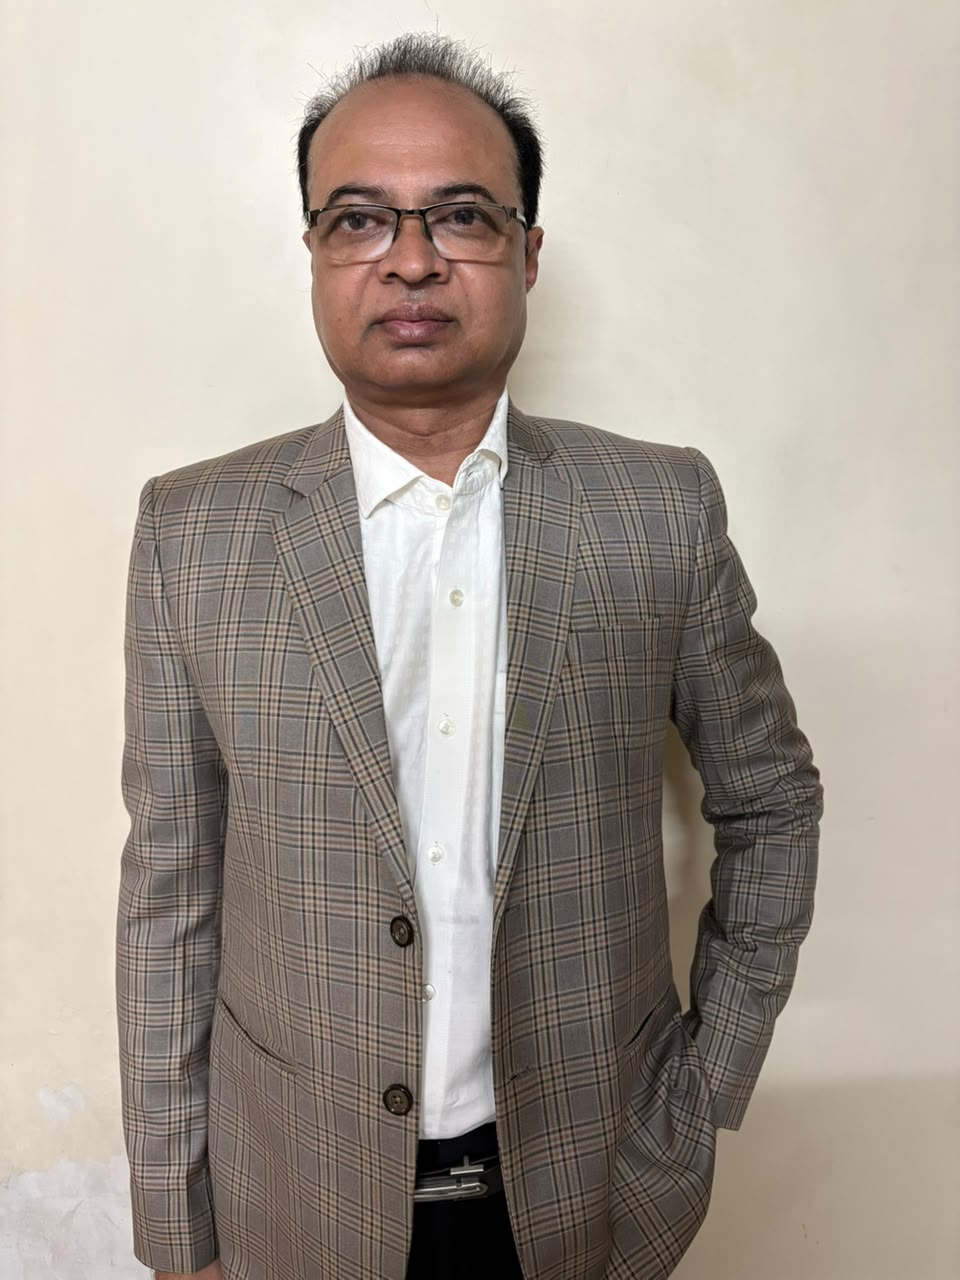
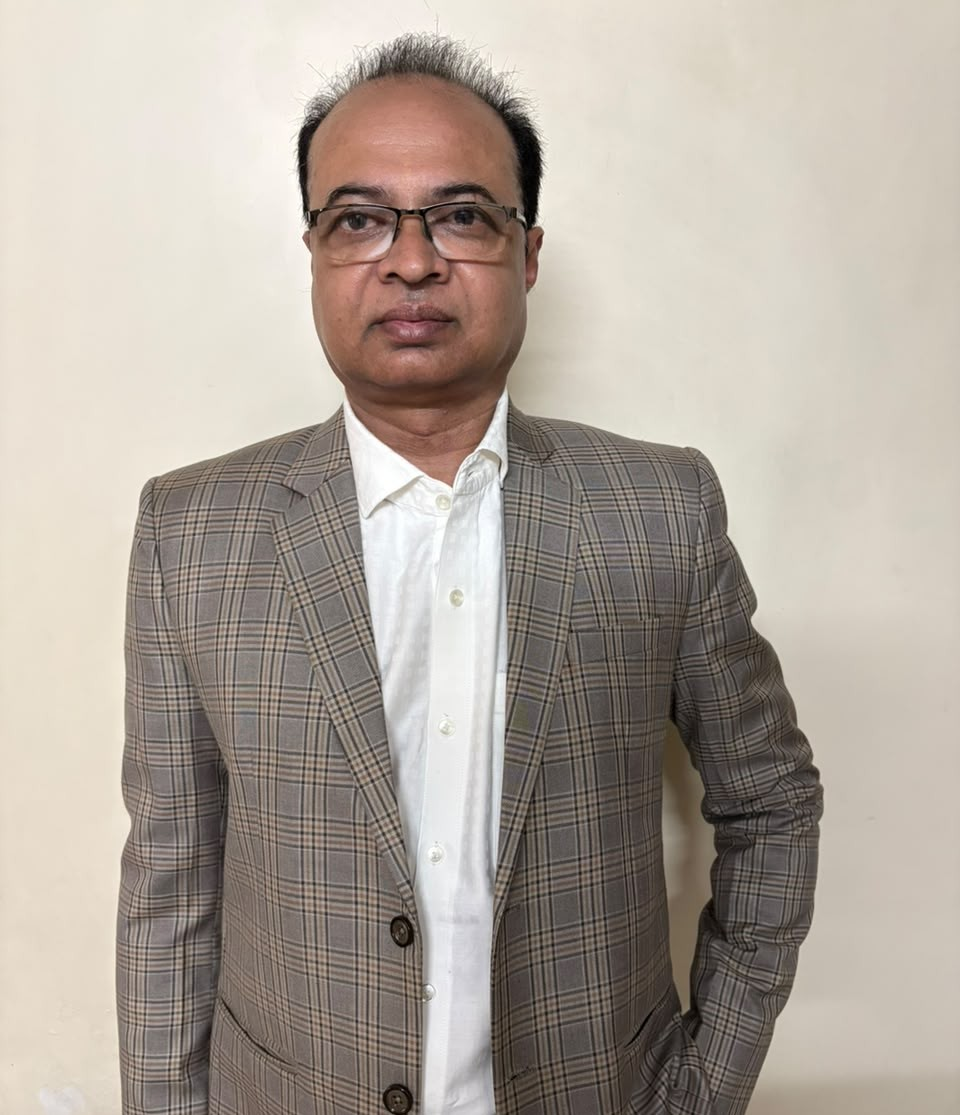
Permanently format Savera Tex Solution LLP in Playfair Display Bold font across entire website

diff --git a/frontend/src/components/BuyerGuide.jsx b/frontend/src/components/BuyerGuide.jsx
@@ -209,7 +209,7 @@ export default function BuyerGuide({ onBack, onInquire }) {
               Buyer's Guide &amp; Sourcing Handbook
             </h1>
             <p className="text-sm sm:text-base text-neutral-600 max-w-3xl leading-relaxed">
-              Essential guidance for retailers, wholesalers, and commercial buyers trading in Indian textiles through {highlightSavera('Savera')} Tex Solution LLP.
+              Essential guidance for retailers, wholesalers, and commercial buyers trading in Indian textiles through {highlightSavera('Savera Tex Solution LLP')}.
             </p>
           </div>
 
@@ -233,7 +233,7 @@ export default function BuyerGuide({ onBack, onInquire }) {
 
           <div className="p-5 sm:p-6 rounded-2xl bg-white border border-[#fbd7b4]/70 shadow-xs space-y-3">
             <p className="text-sm sm:text-base text-neutral-700 leading-relaxed">
-              At {highlightSavera('Savera')} Tex Solution LLP, every new business relationship begins with understanding the buyer's business and purchasing requirements.
+              At {highlightSavera('Savera Tex Solution LLP')}, every new business relationship begins with understanding the buyer's business and purchasing requirements.
             </p>
             <p className="text-sm sm:text-base text-neutral-700 leading-relaxed">
               We follow a structured approach to understand the buyer's expectations, establish a suitable purchasing budget, identify relevant products and connect with appropriate manufacturers.
@@ -278,7 +278,7 @@ export default function BuyerGuide({ onBack, onInquire }) {
               Begin Your Sourcing Journey with {highlightSavera('Savera')}
             </h3>
             <p className="text-sm text-neutral-700 leading-relaxed">
-              Whether you are looking for sarees, salwar suits, lehengas, Indo-Western wear or fabrics, {highlightSavera('Savera')} Tex Solution LLP welcomes enquiries from retailers, wholesalers and textile businesses.
+              Whether you are looking for sarees, salwar suits, lehengas, Indo-Western wear or fabrics, {highlightSavera('Savera Tex Solution LLP')} welcomes enquiries from retailers, wholesalers and textile businesses.
             </p>
             <p className="text-sm text-neutral-700 leading-relaxed font-semibold">
               Share your business requirements with us and begin a discussion about suitable sourcing possibilities.
@@ -361,10 +361,10 @@ export default function BuyerGuide({ onBack, onInquire }) {
           <div className="p-6 rounded-2xl bg-white border border-[#fbd7b4] shadow-xs space-y-3">
             <h3 className="text-lg font-bold text-[#0F1318] flex items-center gap-2">
               <Building className="w-5 h-5 text-[#f16701]" />
-              <span>How {highlightSavera('Savera')} Tex Solution LLP Works</span>
+              <span>How {highlightSavera('Savera Tex Solution LLP')} Works</span>
             </h3>
             <p className="text-sm text-neutral-700 leading-relaxed">
-              {highlightSavera('Savera')} Tex Solution LLP operates as a textile commission agent, connecting retailers, wholesalers and other buyers with manufacturers and suppliers. Our sourcing network includes major textile centres such as Surat, Jaipur, Kolkata, Ahmedabad, Bhagalpur and Varanasi.
+              {highlightSavera('Savera Tex Solution LLP')} operates as a textile commission agent, connecting retailers, wholesalers and other buyers with manufacturers and suppliers. Our sourcing network includes major textile centres such as Surat, Jaipur, Kolkata, Ahmedabad, Bhagalpur and Varanasi.
             </p>
             <p className="text-sm text-neutral-700 leading-relaxed">
               We deal in a range of textile and ethnic-wear categories, including sarees, salwar suits, lehengas, Indo-Western wear and fabrics. Our role is to understand the buyer's requirements, discuss suitable product options within the buyer's budget and identify relevant manufacturers or suppliers.
@@ -374,7 +374,7 @@ export default function BuyerGuide({ onBack, onInquire }) {
             </p>
             <div className="pt-2 border-t border-[#fbd7b4]/40">
               <p className="text-xs sm:text-sm font-semibold text-[#f16701] italic">
-                "At {highlightSavera('Savera')} Tex Solution LLP, we believe that clear communication, transparent commercial arrangements and a proper understanding of responsibilities are important foundations for a business relationship."
+                "At {highlightSavera('Savera Tex Solution LLP')}, we believe that clear communication, transparent commercial arrangements and a proper understanding of responsibilities are important foundations for a business relationship."
               </p>
             </div>
           </div>
@@ -389,7 +389,7 @@ export default function BuyerGuide({ onBack, onInquire }) {
               Part 03
             </span>
             <h2 className="text-2xl sm:text-3xl font-black font-playfair text-[#0F1318]">
-              Buying Directly or Through {highlightSavera('Savera')} Tex Solution LLP?
+              Buying Directly or Through {highlightSavera('Savera Tex Solution LLP')}?
             </h2>
           </div>
 
@@ -398,7 +398,7 @@ export default function BuyerGuide({ onBack, onInquire }) {
               Textile sourcing involves finding the right manufacturers, exploring products, understanding market prices and managing supplier communication. Buyers can handle these activities independently or take assistance from a commission agent.
             </p>
             <p className="text-sm sm:text-base text-neutral-700 leading-relaxed">
-              {highlightSavera('Savera')} Tex Solution LLP connects buyers with textile manufacturers and suppliers, helping them navigate the sourcing process according to their business requirements.
+              {highlightSavera('Savera Tex Solution LLP')} connects buyers with textile manufacturers and suppliers, helping them navigate the sourcing process according to their business requirements.
             </p>
           </div>
 
@@ -420,7 +420,7 @@ export default function BuyerGuide({ onBack, onInquire }) {
                       Buying Directly
                     </th>
                     <th className="py-3.5 px-4 sm:px-6 font-bold text-[#f16701] uppercase tracking-wider w-3/8 bg-[#FFF8F0]">
-                      Through {highlightSavera('Savera')} Tex Solution LLP
+                      Through {highlightSavera('Savera Tex Solution LLP')}
                     </th>
                   </tr>
                 </thead>
@@ -449,7 +449,7 @@ export default function BuyerGuide({ onBack, onInquire }) {
               Working with {highlightSavera('Savera')}
             </h3>
             <p className="text-sm text-neutral-700 leading-relaxed">
-              {highlightSavera('Savera')} Tex Solution LLP works as a commission agent, connecting buyers with manufacturers and suppliers across major textile centres, including Surat, Jaipur, Kolkata, Ahmedabad, Bhagalpur and Varanasi.
+              {highlightSavera('Savera Tex Solution LLP')} works as a commission agent, connecting buyers with manufacturers and suppliers across major textile centres, including Surat, Jaipur, Kolkata, Ahmedabad, Bhagalpur and Varanasi.
             </p>
             <p className="text-sm text-neutral-700 leading-relaxed">
               Our role is to help buyers identify relevant manufacturing sources, explore product options and facilitate communication throughout the sourcing process.
@@ -472,7 +472,7 @@ export default function BuyerGuide({ onBack, onInquire }) {
 
           <div className="p-5 sm:p-6 rounded-2xl bg-white border border-[#fbd7b4]/70 shadow-xs space-y-3">
             <p className="text-sm sm:text-base text-neutral-700 leading-relaxed">
-              A well-defined buying requirement helps make the textile sourcing process more organised. Before approaching {highlightSavera('Savera')} Tex Solution LLP, consider the products you need, your preferred quality, approximate quantity and purchasing budget.
+              A well-defined buying requirement helps make the textile sourcing process more organised. Before approaching {highlightSavera('Savera Tex Solution LLP')}, consider the products you need, your preferred quality, approximate quantity and purchasing budget.
             </p>
             <p className="text-sm sm:text-base text-neutral-700 leading-relaxed">
               Sharing these details helps us understand your expectations and explore suitable manufacturing sources.
@@ -525,7 +525,7 @@ export default function BuyerGuide({ onBack, onInquire }) {
                 Ready to begin?
               </h3>
               <p className="text-sm sm:text-base text-white/95 leading-relaxed">
-                Fill out the enquiry form available on our website and share your buying requirements with {highlightSavera('Savera')} Tex Solution LLP to start your textile sourcing discussion.
+                Fill out the enquiry form available on our website and share your buying requirements with {highlightSavera('Savera Tex Solution LLP')} to start your textile sourcing discussion.
               </p>
             </div>
 

diff --git a/frontend/src/utils/highlightSavera.jsx b/frontend/src/utils/highlightSavera.jsx
@@ -1,22 +1,48 @@
 import React from 'react';
 
 /**
- * Ensures any occurrence of 'Savera', 'savera', or 'SAVERA' is permanently rendered in orange (#f16701).
- * Preserves the exact casing and returns React nodes.
+ * Ensures:
+ * 1. "Savera Tex Solution LLP" (any casing) is permanently formatted in Playfair Display Bold ('font-playfair font-bold'),
+ *    with 'SAVERA'/'Savera' in orange (#f16701) and 'TEX SOLUTION LLP' in bold Playfair.
+ * 2. Standalone 'Savera' / 'savera' / 'SAVERA' is permanently rendered in orange (#f16701).
+ * Preserves exact casing and returns React nodes.
  */
 export function highlightSavera(text) {
   if (typeof text !== 'string') return text;
-  if (!/(savera)/i.test(text)) return text;
+  if (!/(savera\s+tex\s+solution(?:\s+llp)?|savera)/i.test(text)) return text;
 
-  const parts = text.split(/(savera)/i);
+  // Split matching either the full brand name (with or without LLP) or standalone savera
+  const parts = text.split(/(savera\s+tex\s+solution(?:\s+llp)?|savera)/i);
+
   return parts.map((part, idx) => {
-    if (part.toLowerCase() === 'savera') {
+    const lower = part.toLowerCase();
+
+    // Full brand phrase: Savera Tex Solution [LLP]
+    if (lower.startsWith('savera') && lower.includes('tex') && lower.includes('solution')) {
+      const match = part.match(/^(savera)\s*(.*)$/i);
+      const saveraWord = match ? match[1] : 'Savera';
+      const restWords = match ? match[2] : 'Tex Solution LLP';
+
+      return (
+        <span
+          key={idx}
+          className="font-playfair font-bold inline-flex items-baseline gap-1"
+        >
+          <span className="text-[#f16701]">{saveraWord}</span>
+          <span className="text-inherit">{restWords}</span>
+        </span>
+      );
+    }
+
+    // Standalone Savera / savera / SAVERA
+    if (lower === 'savera') {
       return (
         <span key={idx} className="text-[#f16701]">
           {part}
         </span>
       );
     }
+
     return part;
   });
 }

diff --git a/frontend/src/components/ConnectForm.jsx b/frontend/src/components/ConnectForm.jsx
@@ -1,5 +1,6 @@
 import React, { useState } from 'react';
 import RadialGlowButton from './ui/radial-glow-button';
+import { highlightSavera } from '../utils/highlightSavera';
 
 export default function ConnectForm() {
   const [formData, setFormData] = useState({
@@ -126,7 +127,7 @@ export default function ConnectForm() {
           <div className="bg-white p-6 sm:p-8 md:p-10 rounded-3xl border border-[#f8b47d]/40 shadow-xl">
             {status && (
               <div className={`mb-6 p-5 rounded-2xl border ${status.type === 'error' ? 'bg-rose-50 border-rose-200 text-rose-800' : 'bg-emerald-50 border-emerald-200 text-emerald-900'} space-y-1`}>
-                <p className="font-bold text-sm">{status.message}</p>
+                <p className="font-bold text-sm">{highlightSavera(status.message)}</p>
                 {status.leadId && (
                   <p className="text-xs text-neutral-600">Reference ID: <span className="font-mono font-bold text-neutral-900">{status.leadId}</span></p>
                 )}

diff --git a/frontend/src/components/ui/social-flip-button.jsx b/frontend/src/components/ui/social-flip-button.jsx
@@ -2,6 +2,7 @@ import React, { useState } from 'react';
 import { motion, AnimatePresence } from 'framer-motion';
 import { MapPin, Mail } from 'lucide-react';
 import { cn } from '../../lib/utils';
+import { highlightSavera } from '../../utils/highlightSavera';
 
 const defaultSocialItems = [
   {
@@ -120,7 +121,7 @@ const SocialFlipNode = ({
             transition={{ duration: 0.18, ease: 'easeOut' }}
             className="absolute left-1/2 bottom-full z-50 whitespace-nowrap rounded-xl bg-[#0F1318] px-3 py-1 text-[11px] font-bold text-white shadow-xl border border-[#f8b47d]/40 pointer-events-none"
           >
-            {item.label}
+            {highlightSavera(item.label)}
             {/* Arrow Pointer */}
             <div className="absolute -bottom-1 left-1/2 -translate-x-1/2 h-2 w-2 rotate-45 bg-[#0F1318] border-r border-b border-[#f8b47d]/40" />
           </motion.div>

diff --git a/frontend/src/components/Founder.jsx b/frontend/src/components/Founder.jsx
@@ -46,7 +46,7 @@ export default function Founder() {
                 Vineet Kr. Taparia
               </h3>
               <p className="text-xs font-bold text-[#f16701]">
-                Founder, <span className="text-[#f16701]">SAVERA</span> <span className="text-[#0F1318]">TEX SOLUTION LLP</span>
+                Founder, <span className="font-playfair font-bold inline-flex items-baseline gap-1"><span className="text-[#f16701]">SAVERA</span> <span className="text-[#0F1318]">TEX SOLUTION LLP</span></span>
               </p>
             </div>
 
